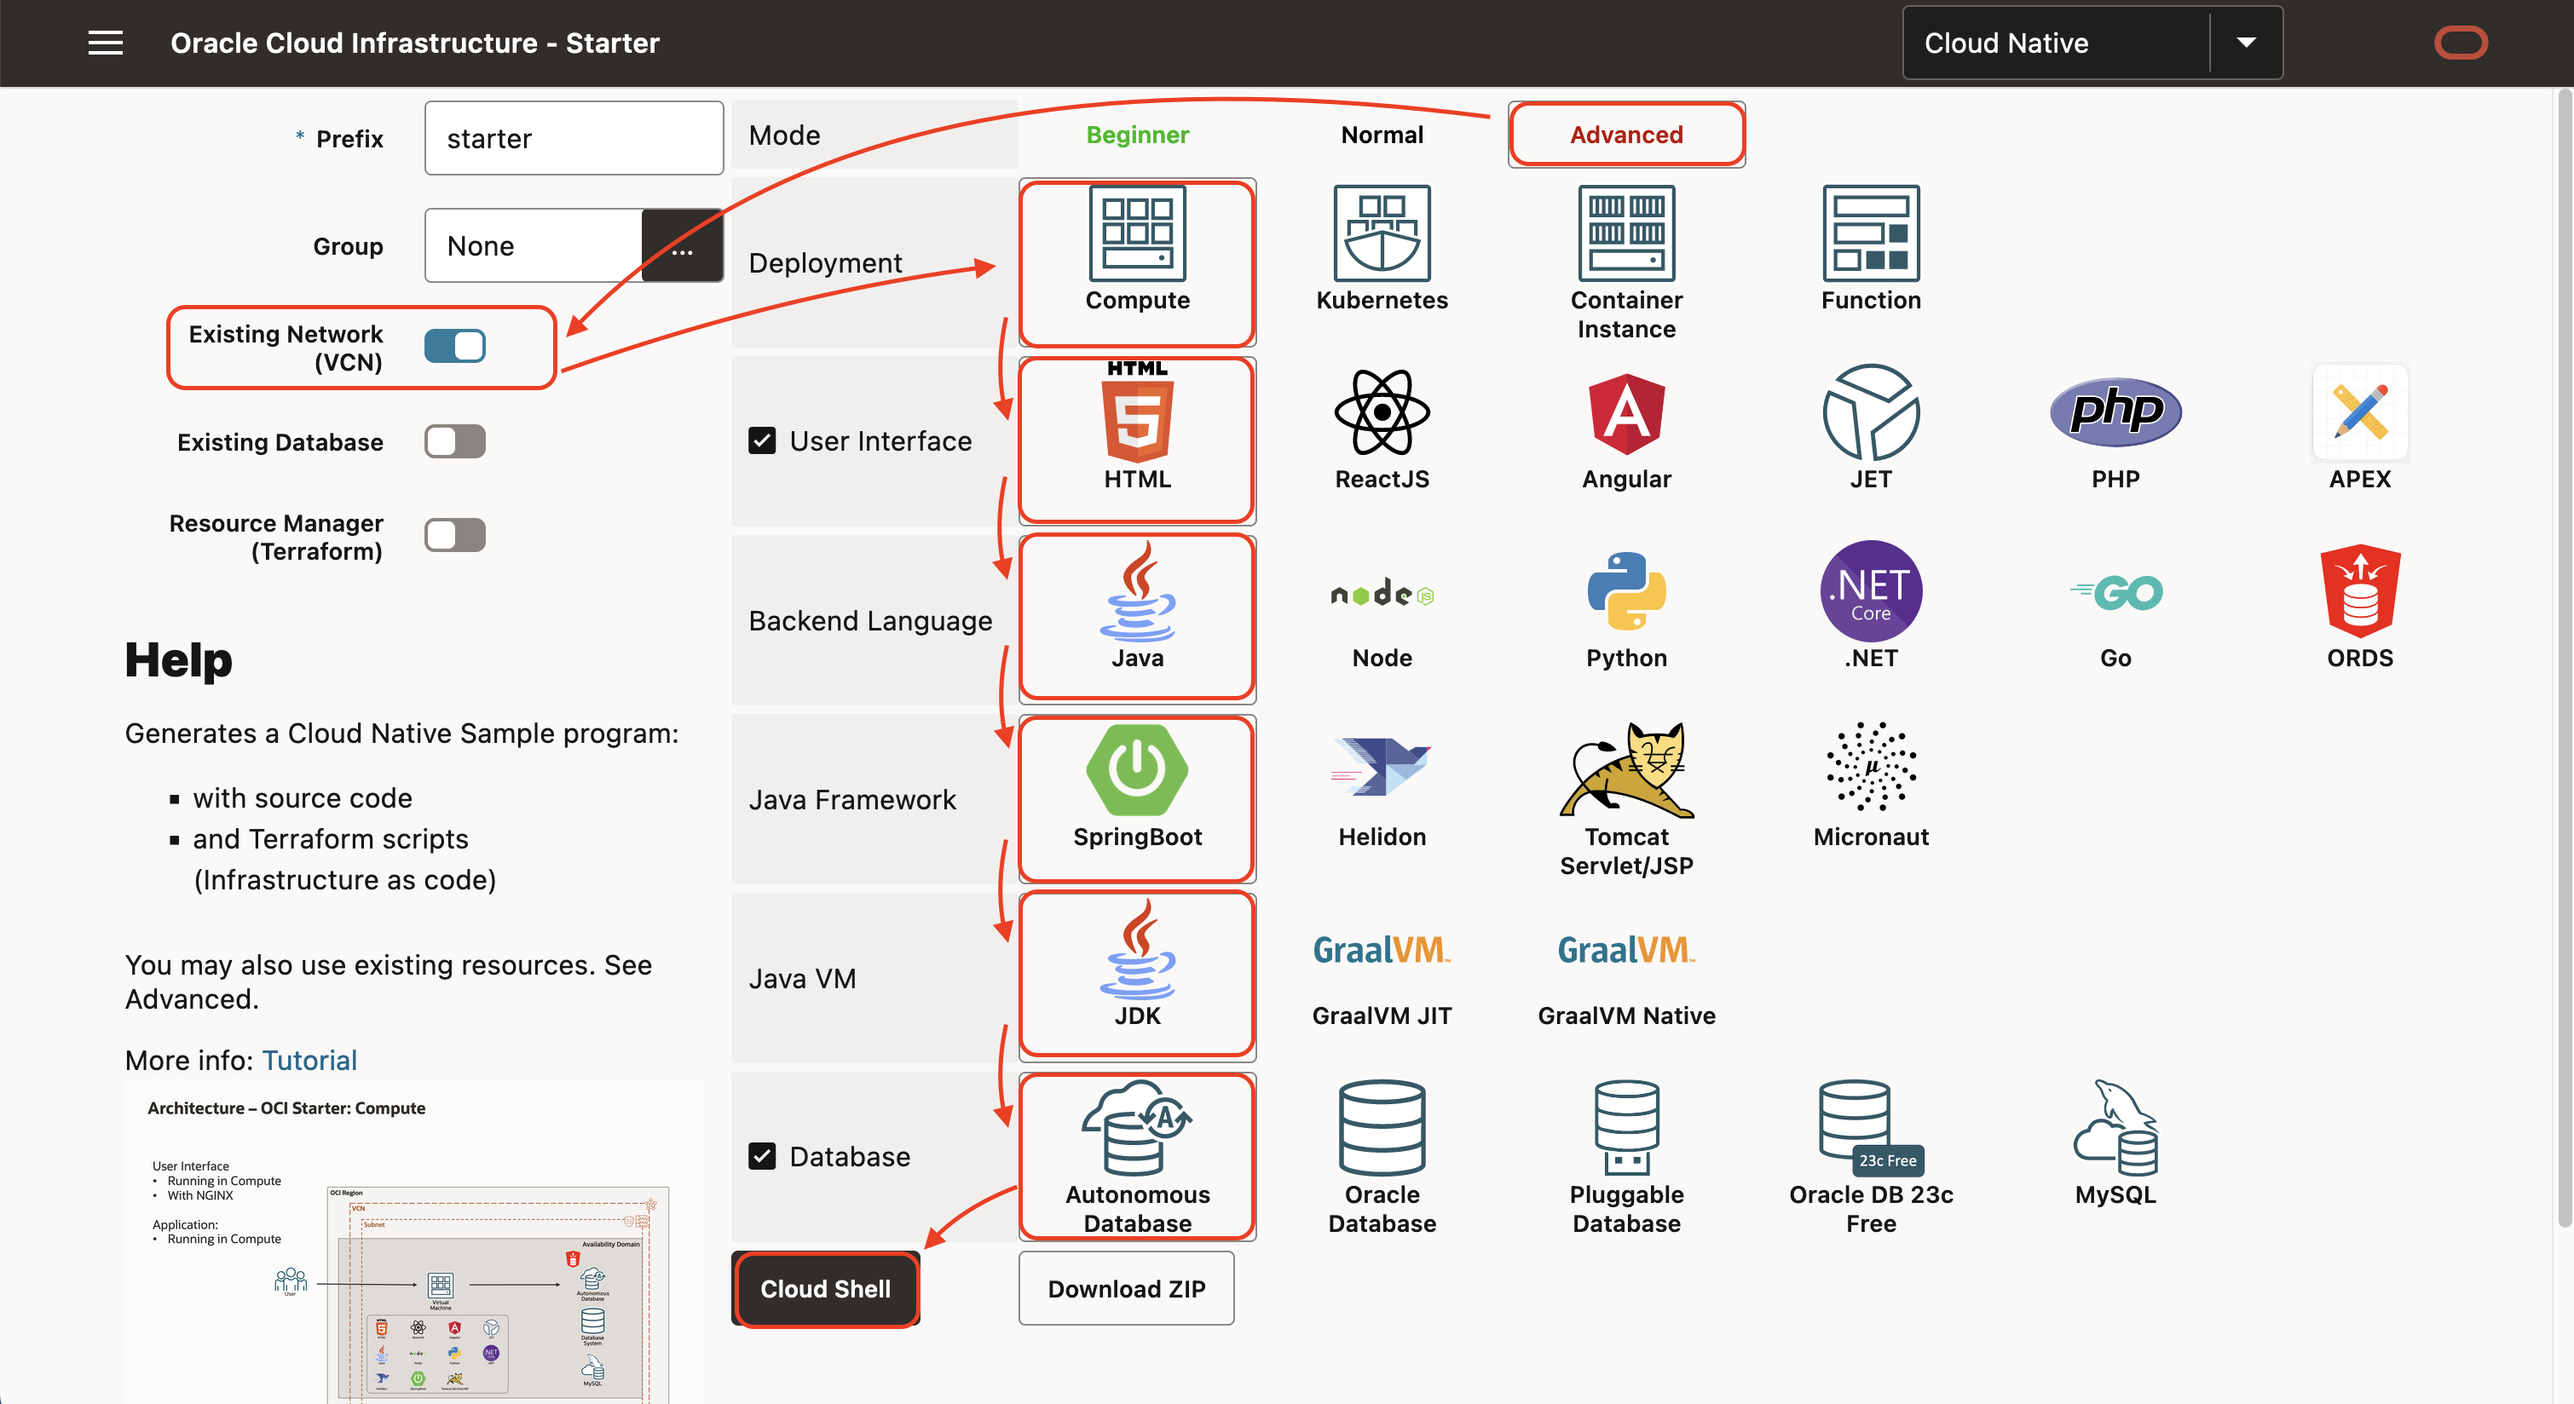
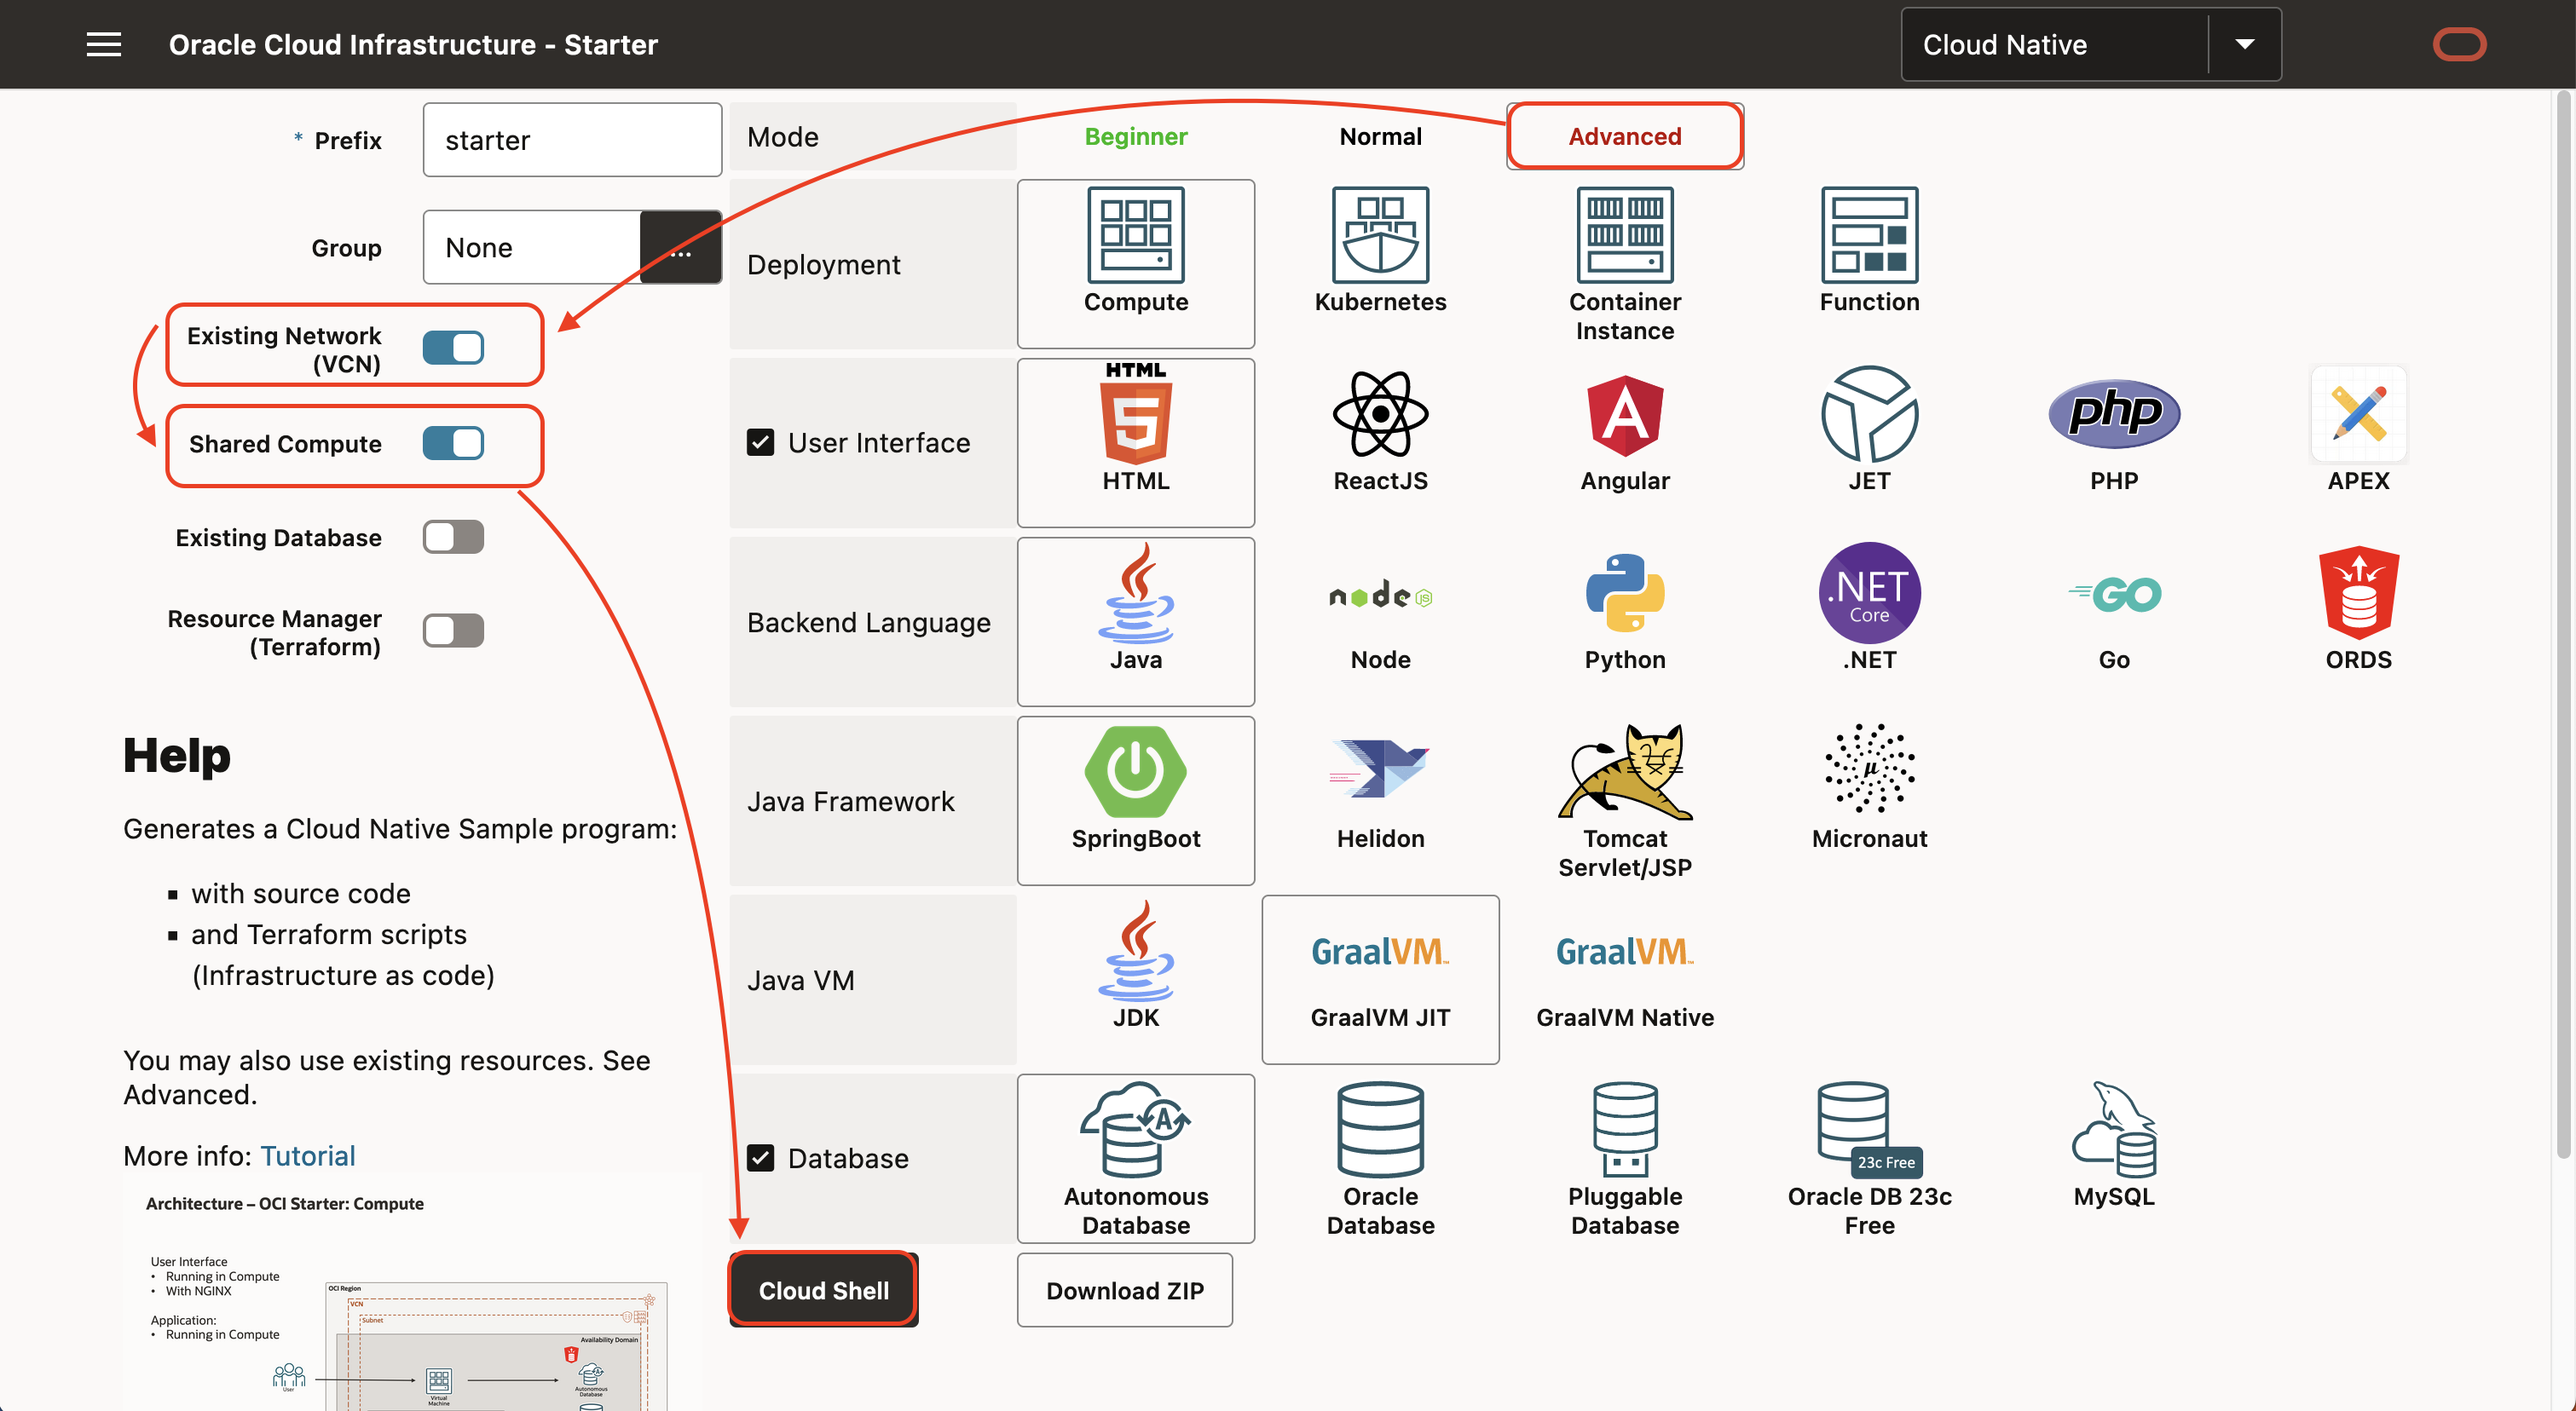
WMS 11499 - Green Button v2 (#300)
* OpenSearch - ObjectStorage V1

* Opensearch v2

* v3

* V3

* Image Alternative Texts

* V2

* V2

* v4

* V4

* Update manifest.json

* additional step

* various fixes

* various fixes

* OCI Starter

* OpenSearch New version screen user/password

* Update visual_builder.md

* 2023-03-18

* 2023-03-18

* 2023-03-18

* 2023-03-21

* APIM

* APIM

* Update test.md

* Update test.md

* APIM

* APIM

* Update test.md

* APIM

* APIM

* APIM

* APIM

* APIM

* APIM

* APIM

* APIM

* APIM

* Formatting

* Formatting

* Numbering

* Update intro.md

* Lab 2 Task 2 indentation

* -

* 2023-06-05

* 2023-06-05

* 2023-06-05

* 2023-06-05

* 2023-06-05

* 2023-06-06

* 2023-06-06

* 2023-06-12

* 2023-06-12

* 2023-07-31

* 2023-08-01

* 2023-08-01

* Videos

* Video

* Update integration.md

* Update integration.md

* oci-starter-lab v1

* Update intro.md

* OCI-Starter V2

* push oci-portal

* OCI Starter Lab v1

* QA

* . files removed

* Removed beta remark.

* oci starter - formatting

* OCI-Starter

* oci-starter bullets

* Introduction tag

* Green Button (1rst version)

* LiveLabs Green Button

---------

diff --git a/oci-starter-lab/compute/compute_green.md b/oci-starter-lab/compute/compute_green.md
@@ -30,15 +30,20 @@ If later, you want to try the full version of the lab for ex with Kubernetes or 
 
 ## Task 1: Create the Application
 
-1. Using your browser, go to https://www.ocistarter.com/
-2. Choose 
+We will use to Advanced tab to work with the limits of the LiveLab sandbox. (Existing network, ...)
+
+1. In your browser, go to https://www.ocistarter.com/
+2. Choose:
     - Advanced
-    - Existing VCN (This is needed to use the VCN created by the Green Button) 
-    - Compute
-    - HTML
-    - Java
-    - SpringBoot
-    - Autonomous database
+    - Existing VCN 
+    - Shared Compute 
+    - Keep:
+        - Compute
+        - HTML
+        - Java
+        - SpringBoot
+        - GraalVM
+        - Autonomous database
 3. Click *Cloud Shell*
     - You will see the commands to use.
   ![OCI Starter Compute Java](images/starter-compute-green-button-java.png)
@@ -48,7 +53,7 @@ If later, you want to try the full version of the lab for ex with Kubernetes or 
     - Copy paste the command below. And check the README.md
     ```
     <copy>
-    curl -k "https://www.ocistarter.com/app/zip?prefix=starter&deploy=compute&ui=html&language=java&database=atp&vcn_strategy=existing" --output starter.zip
+    curl -k "https://www.ocistarter.com/app/zip?prefix=starter&deploy=compute&ui=html&language=java&db_install=shared_compute&database=atp&vcn_strategy=existing" --output starter.zip
     unzip starter.zip
     cd starter
     cat README.md
@@ -78,23 +83,18 @@ If later, you want to try the full version of the lab for ex with Kubernetes or 
         - bin           : with some helper commands
             - bin/ssh\_compute.sh (to ssh to the Compute)
             - bin/ssh\_bastion.sh (to ssh to the Bastion)
-3. Edit the env.sh file:
+3. Check the env.sh file:
     - Choose the env.sh file.
-    - Look for \_\_TO_FILL\_\_ in the file
-        - XXXXXXXXXXXXXXXX
-        - export TF\_VAR\_vcn\_ocid="\_\_TO_FILL\_\_"
-        - export TF\_VAR\_public\_subnet\_ocid="\_\_TO_FILL\_\_"
-        - export TF\_VAR\_private\_subnet\_ocid="\_\_TO_FILL\_\_"
-        - XXXXXXXXXXXXXXXX
-    - You may leave the database password. If not filled, the "db password" will be randomly generated.
-    - Ideally, you can also use an existing compartment if you have one. 
-        - If not, the script will create a "oci-starter" compartment
+    - Since we are in LiveLasbs installation, all the settings will be found automatically.
+          - TF_VAR_compartment_ocid, TF_VAR_vcn_ocid / TF_VAR_public_subnet_ocid, TF_VAR_private_subnet_ocid will be found automatically.
+          - The database password, if not filled, will be randomly generated.
     ![Editor env.sh](images/starter-compute-env.png)
 
 ## Task 3: Build.sh
 
-During the build, Terraform will create:
+During the build, Terraform will reuse the 
 - Network resources: VCN, Subnet
+Then create: 
 - A database
 - A compute instance to run NGINX + the Java App
 - A bastion used mostly to populate the database with the table
@@ -124,9 +124,13 @@ During the build, Terraform will create:
 
 ## Task 4: More info
 
+OCI Starter running in your own tenancy or not has a lot more options like Kubernetes or Container Instances.
+
+You can also check how it works and how to customize what you built.
+
 ### Customize
 
-Please also check the  "Lab 5 - How to Customize" to see how to customize this sample to your needs
+Please also check the  "Lab 3 - How to Customize" to see how to customize this sample to your needs
 
 ### SSH
 

diff --git a/oci-starter-lab/green_button/green_button.md b/oci-starter-lab/green_button/green_button.md
@@ -1,0 +1,56 @@
+
+# LiveLabs Reservation
+
+## Introduction
+
+Estimated time: 10 min
+
+### Objectives
+
+Login to your LiveLabs reservation.  
+
+### Prerequisites
+
+You should have an active LiveLabs Reservation.
+
+## Task 1: View Login Info
+
+Let's log in your LiveLabs reservation
+
+1. In your browser, click on View Login Info
+2. Take note of the Username ##USERNAME## 
+2. Click *Copy Password* 
+3. Click *Launch OCI*
+
+![Reservation](images/starter-reservation.png)
+
+## Task 2: Login to OCI
+
+1. Login 
+    - Paste the password 
+    - Click *Sign In*
+    ![Reservation](images/starter-sign-in.png)
+2. Change Password 
+    - Paste the password again in the *Current Password*
+    - Type a new password twice (Ex: LiveLab__1234)
+    - Click *Save New Password*
+    ![Reservation](images/starter-change-password.png)
+
+## Task 3: Change the compartment
+
+1. Go to Compute
+    - Click on *Instances Compute*
+    ![Reservation](images/starter-home.png)
+2. Change the compartment
+    - Open the tree
+    - Click on the one that has the same name than your ##Username## (see above / Reservation Info)
+    ![Reservation](images/starter-compartment.png)
+
+Congratulation. You are ready to start your next lab.
+
+## Acknowledgements
+
+* Author - Marc Gueury
+* Contributors - Ewan Slater 
+* Last Updated - Nov, 2th 2023
+
